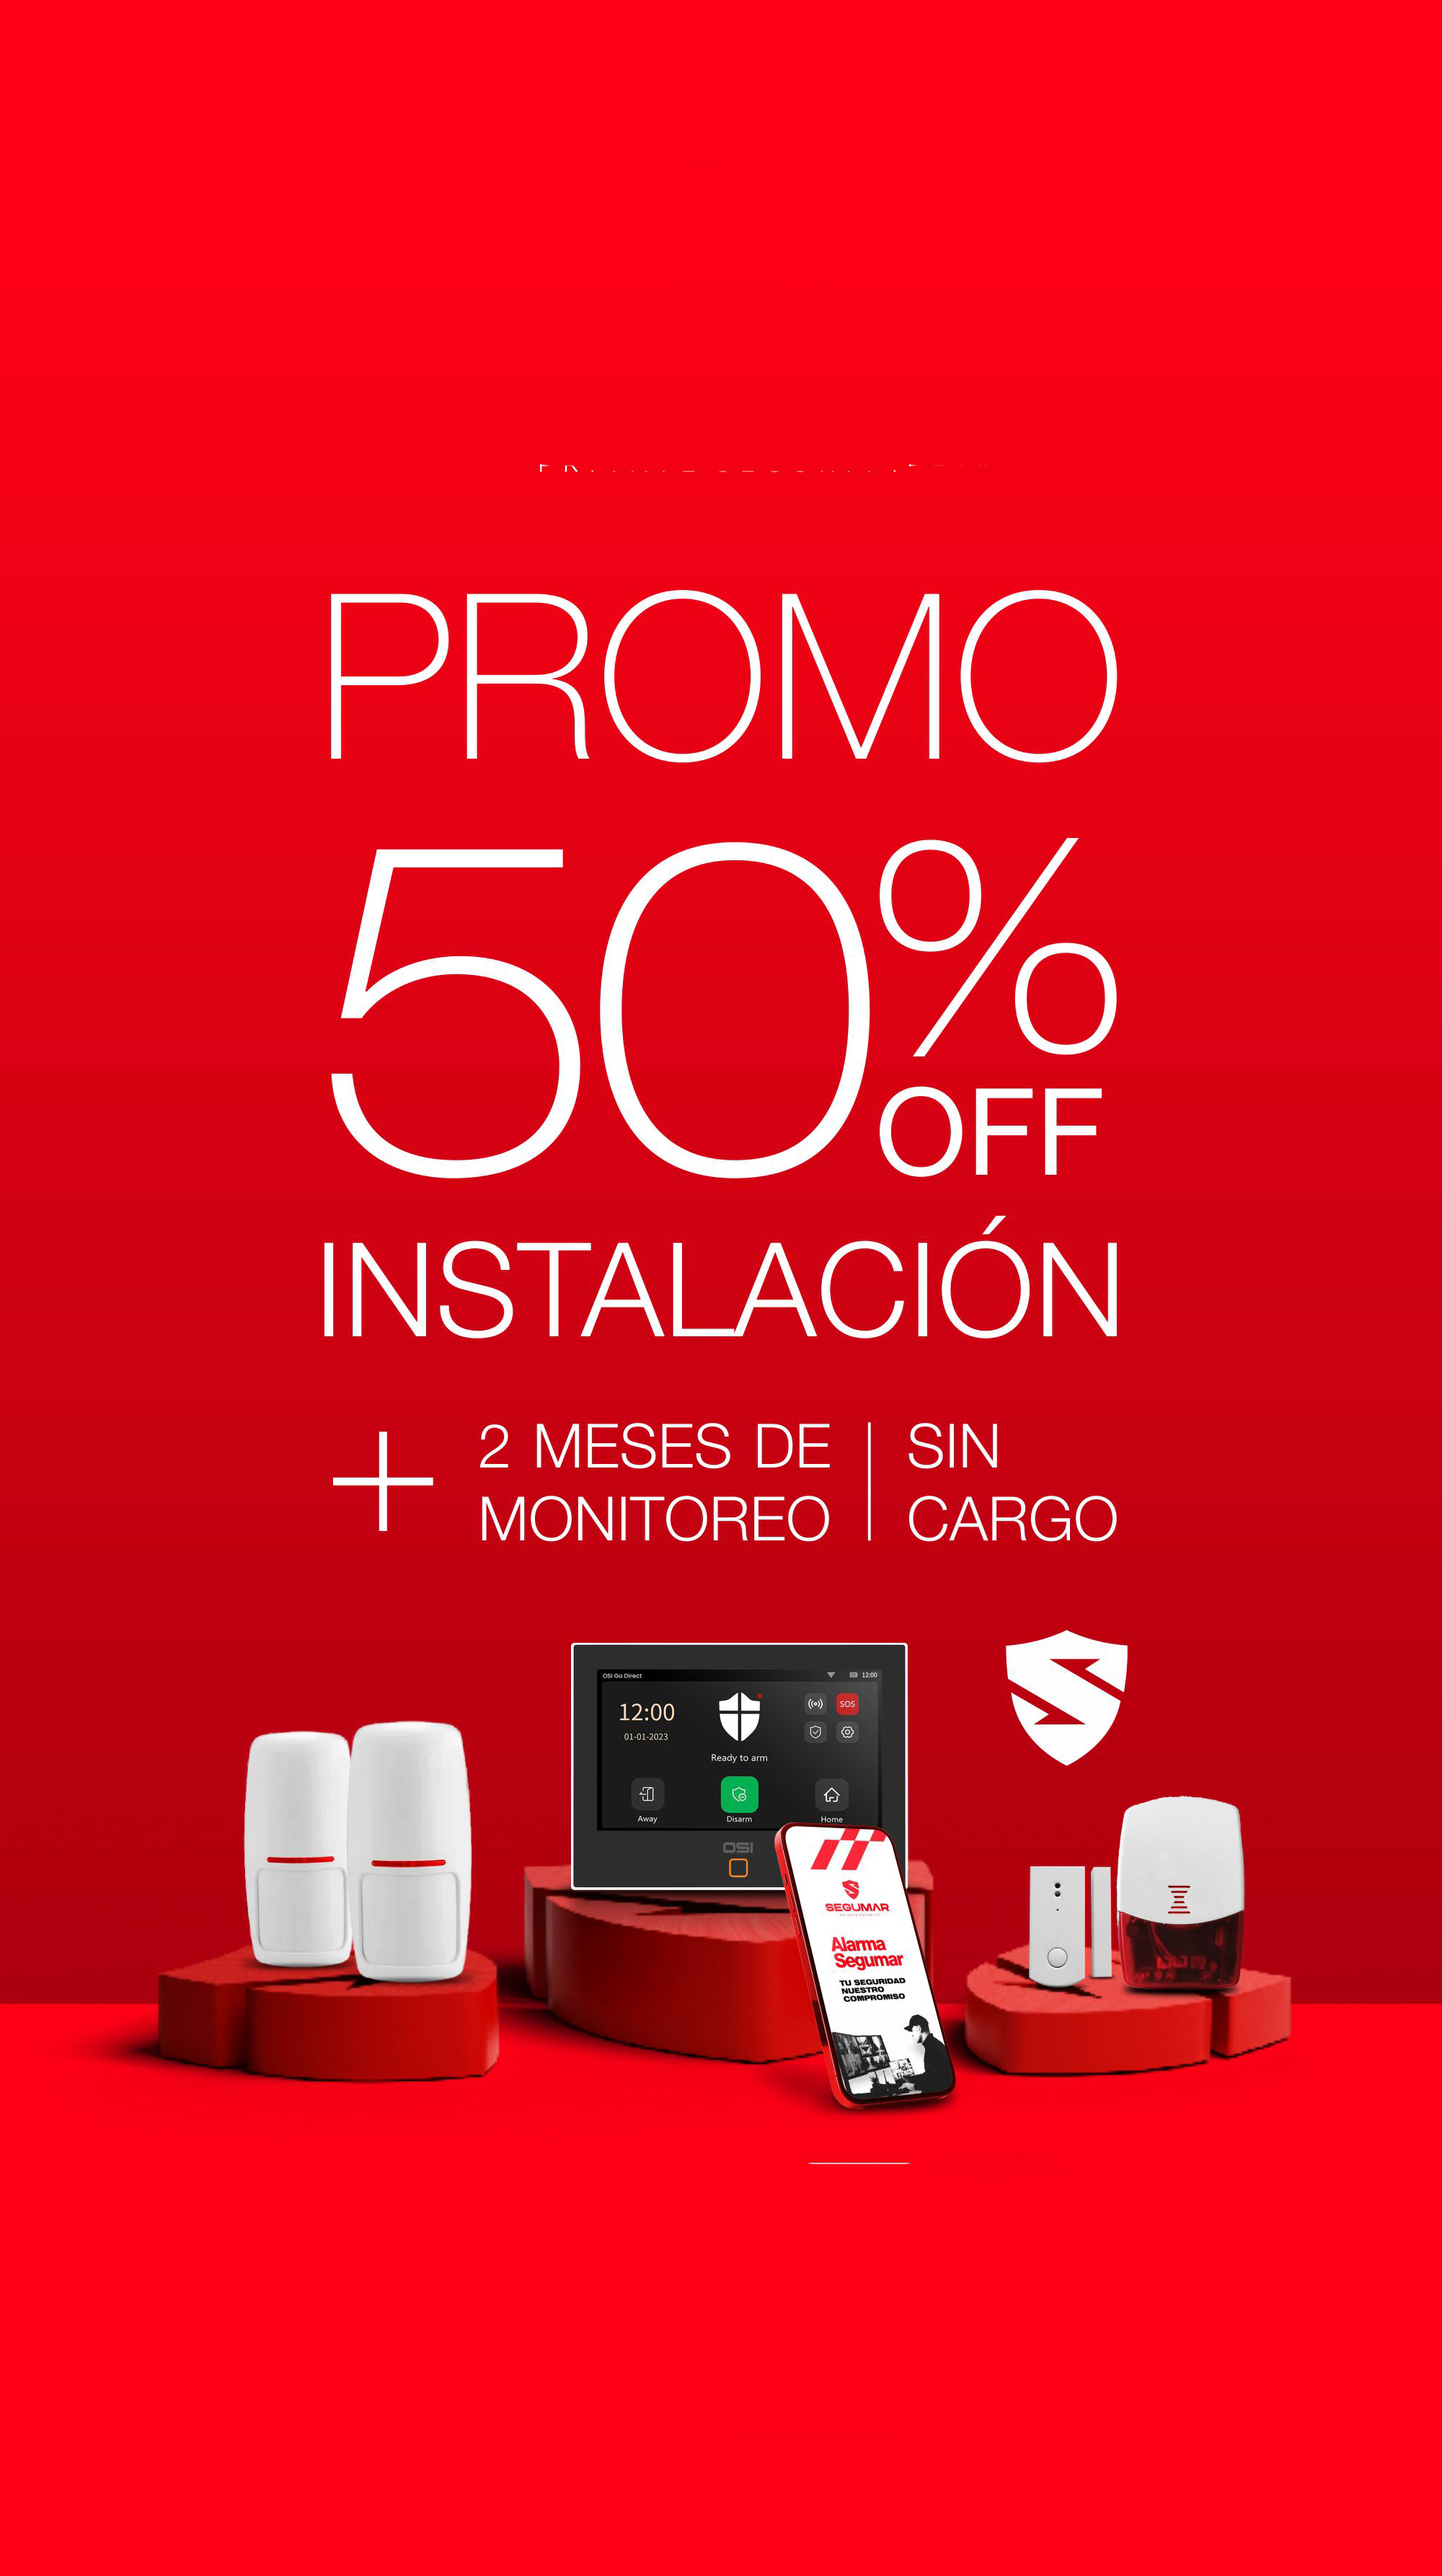
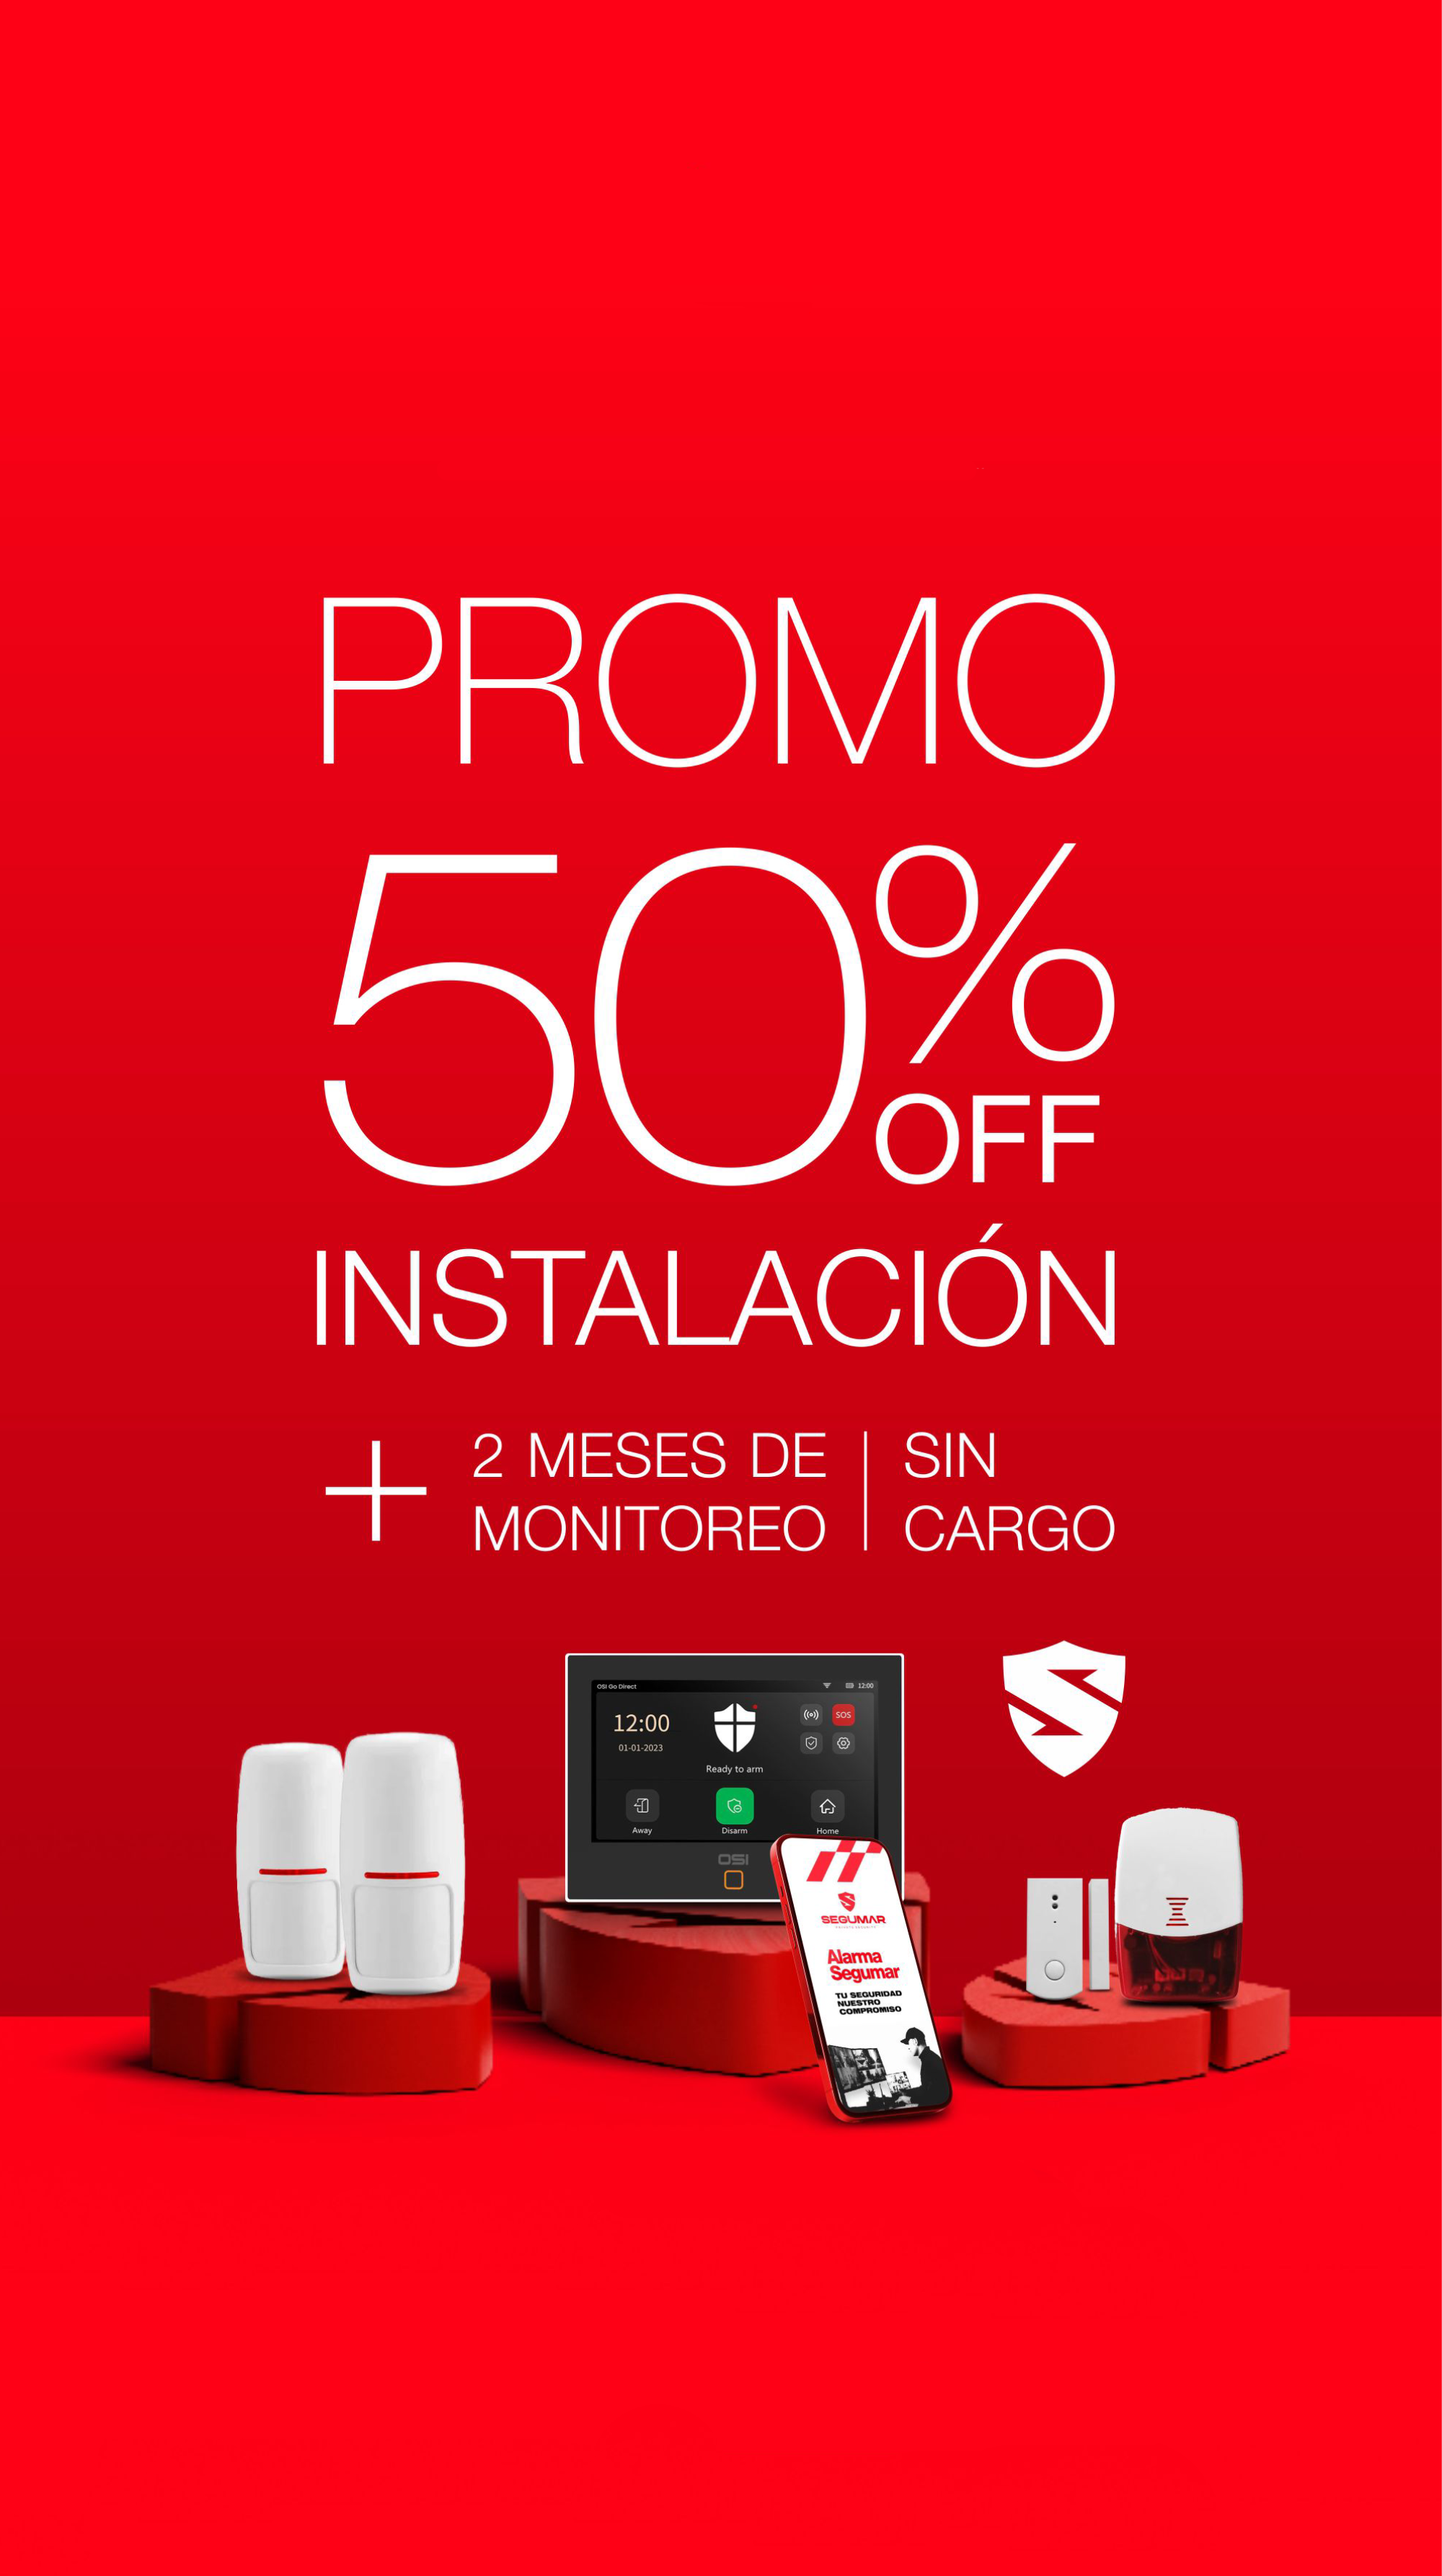
Promo en AlarmaMonitoreada

Changed region(s): [[0.0, 0.2175, 1.0, 0.839], [0.682, 0.2175, 0.775, 0.2797], [0.682, 0.2797, 0.744, 0.3108]]

diff --git a/src/components/promoBanner.jsx b/src/components/promoBanner.jsx
@@ -1,0 +1,76 @@
+// src/components/PromoBanner.js
+import React, { useState, useEffect } from "react";
+import "swiper/css"; // para que carguen los estilos base si los usás
+
+const imagesDesktop = [
+  { src: "img/SegumarD.png", alt: "Banner principal de Segumar" },
+];
+
+const imagesTablet = [
+  { src: "img/SegumarI.jpg", alt: "Promoción Segumar en tablet" },
+];
+
+const imagesMobile = [
+  { src: "img/PROMO501.png", alt: "Promo 50% Segumar" },
+];
+
+export const PromoBanner = () => {
+  const [image, setImage] = useState(imagesDesktop[0]);
+
+  useEffect(() => {
+    const updateImage = () => {
+      const width = window.innerWidth;
+      const height = window.innerHeight;
+
+      if (width > height) {
+        setImage(imagesDesktop[0]);
+      } else if (width <= 767) {
+        setImage(imagesMobile[0]);
+      } else {
+        setImage(imagesTablet[0]);
+      }
+    };
+
+    updateImage();
+    window.addEventListener("resize", updateImage);
+    return () => window.removeEventListener("resize", updateImage);
+  }, []);
+
+  return (
+    <div>
+    <div className="carruselContainer">
+      <div className="mySwiper">
+        <img src={image.src} className="imgCarrusel" alt={image.alt} />
+      </div>
+
+      <div className="promo-container" style={{ opacity: 1 }}>
+        <div className="promo-text">
+          <p className="promo-top">PROMO</p>
+          <p className="promo-porcentaje">
+            <span className="big">50</span>
+            <span className="percent-off">
+              <span className="percent">%</span>
+              <span className="off">OFF</span>
+            </span>
+          </p>
+          <p className="instalacion">INSTALACIÓN</p>
+          <p className="extra">
+            + 2 MESES DE MONITOREO
+            <br />
+            SIN CARGO
+          </p>
+          <a
+            href="https://wa.me/2236852201"
+            target="_blank"
+            rel="noopener noreferrer"
+            className="promo-button"
+          >
+            Solicitar Promo
+          </a>
+        </div>
+      </div>
+
+    </div>
+    </div>
+  );
+};

diff --git a/src/components/navigation.jsx b/src/components/navigation.jsx
@@ -128,7 +128,7 @@ export const Navigation = () => {
             </ul>
 
             <div className="navbarSocialIcons">
-              <a href="https://www.facebook.com/segumar" target="_blank" rel="noopener noreferrer">
+              <a href="https://www.facebook.com/segumarseguridad" target="_blank" rel="noopener noreferrer">
                 <img src="/img/fb.png" alt="Icono de Facebook" className="redLogo" />
               </a>
               <a href="https://www.instagram.com/segumar_seguridad" target="_blank" rel="noopener noreferrer">
@@ -141,8 +141,13 @@ export const Navigation = () => {
 
       <div className="whatsapp-bar">
         <p className="whatsapp-bar-cotizar"><strong>COTIZAR</strong></p>
-        <a href="https://wa.me/542236852201" target="_blank" rel="noopener noreferrer" className="whatsapp-button2">
-          📞 2236 85-2201
+        <a
+          href="https://wa.me/542236852201"
+          target="_blank"
+          rel="noopener noreferrer"
+          className="whatsapp-button2"
+        >
+          <i className="fab fa-whatsapp"></i> 2236 85-2201
         </a>
       </div>
     </>

diff --git a/src/App.jsx b/src/App.jsx
@@ -19,6 +19,7 @@ import { AlarmaMonitoreada } from "./components/alarmaMonitoreada";
 import JsonData from "./data/data.json";
 import SmoothScroll from "smooth-scroll";
 import { Footer } from "./components/footer";
+import { PromoBanner } from "./components/promoBanner";
 
 export const scroll = new SmoothScroll('a[href*="#"]', {
   speed: 1000,
@@ -136,12 +137,17 @@ const App = () => {
             <Route path="/" element={<LandingWrapper landingPageData={landingPageData} />} />
             <Route
               path="/alarma-monitoreada"
-              element={<AlarmaMonitoreada/>}
+              element={
+                <>       
+                <PromoBanner />           
+                <AlarmaMonitoreada />
+  
+                </>
+              }
             />
           </Routes>
-
           <Wpp />
-          <Contact/>
+          <Contact data={landingPageData.Contact} />
           <Footer/>
         </Router>
       )}

diff --git a/src/components/footer.jsx b/src/components/footer.jsx
@@ -8,7 +8,7 @@ export const Footer = () => {
           <ul>
             <li>
               <a
-                href="https://www.facebook.com/share/1P3fvzFNM7/?mibextid=wwXIfr"
+                href="https://www.facebook.com/segumarseguridad"
                 target="_blank"
                 rel="noopener noreferrer"
               >
@@ -21,7 +21,7 @@ export const Footer = () => {
             </li>
             <li>
               <a
-                href="https://www.instagram.com/segumar_seguridad?igsh=YXd1bnNuMmhueHd4"
+                href="https://www.instagram.com/segumar_seguridad"
                 target="_blank"
                 rel="noopener noreferrer"
               >

diff --git a/src/components/alarmaMonitoreada.jsx b/src/components/alarmaMonitoreada.jsx
@@ -79,6 +79,9 @@ export const AlarmaMonitoreada = (props) => {
        
 
         </div>
+        <div id="about">
+            <img src="/img/SS anmac.png" alt="Autorización del Ministerio de Seguridad de Buenos Aires y ANMaC" className="anmacImg" />
+       </div>
     </div>
   );
 };

diff --git a/src/components/contact.jsx b/src/components/contact.jsx
@@ -45,6 +45,8 @@ export const Contact = (props) => {
       }
     );
   };
+  console.log("Contact props:", props.data);
+
   return (
     <div>
       <div id="contact">

diff --git a/public/css/style.css b/public/css/style.css
@@ -1021,7 +1021,6 @@ header .intro-text {
 
 #about .anmacImg{
   width: 100%;
-  margin: 100px 0 0 0;
   background-color: #fafafa;
   padding: 30px auto;
 }
